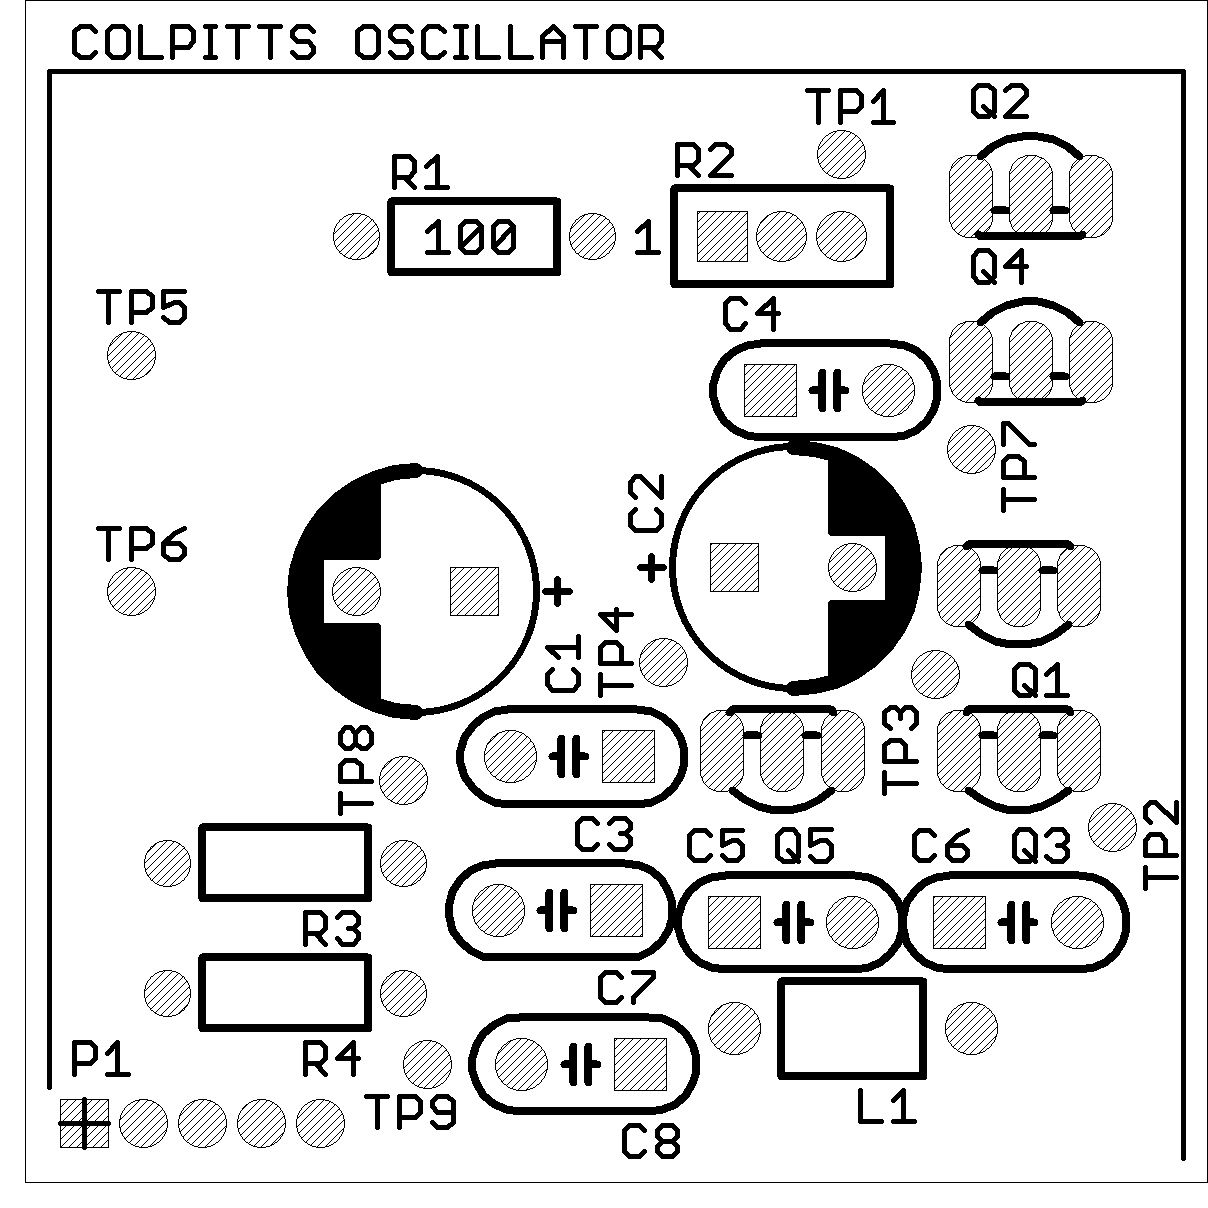
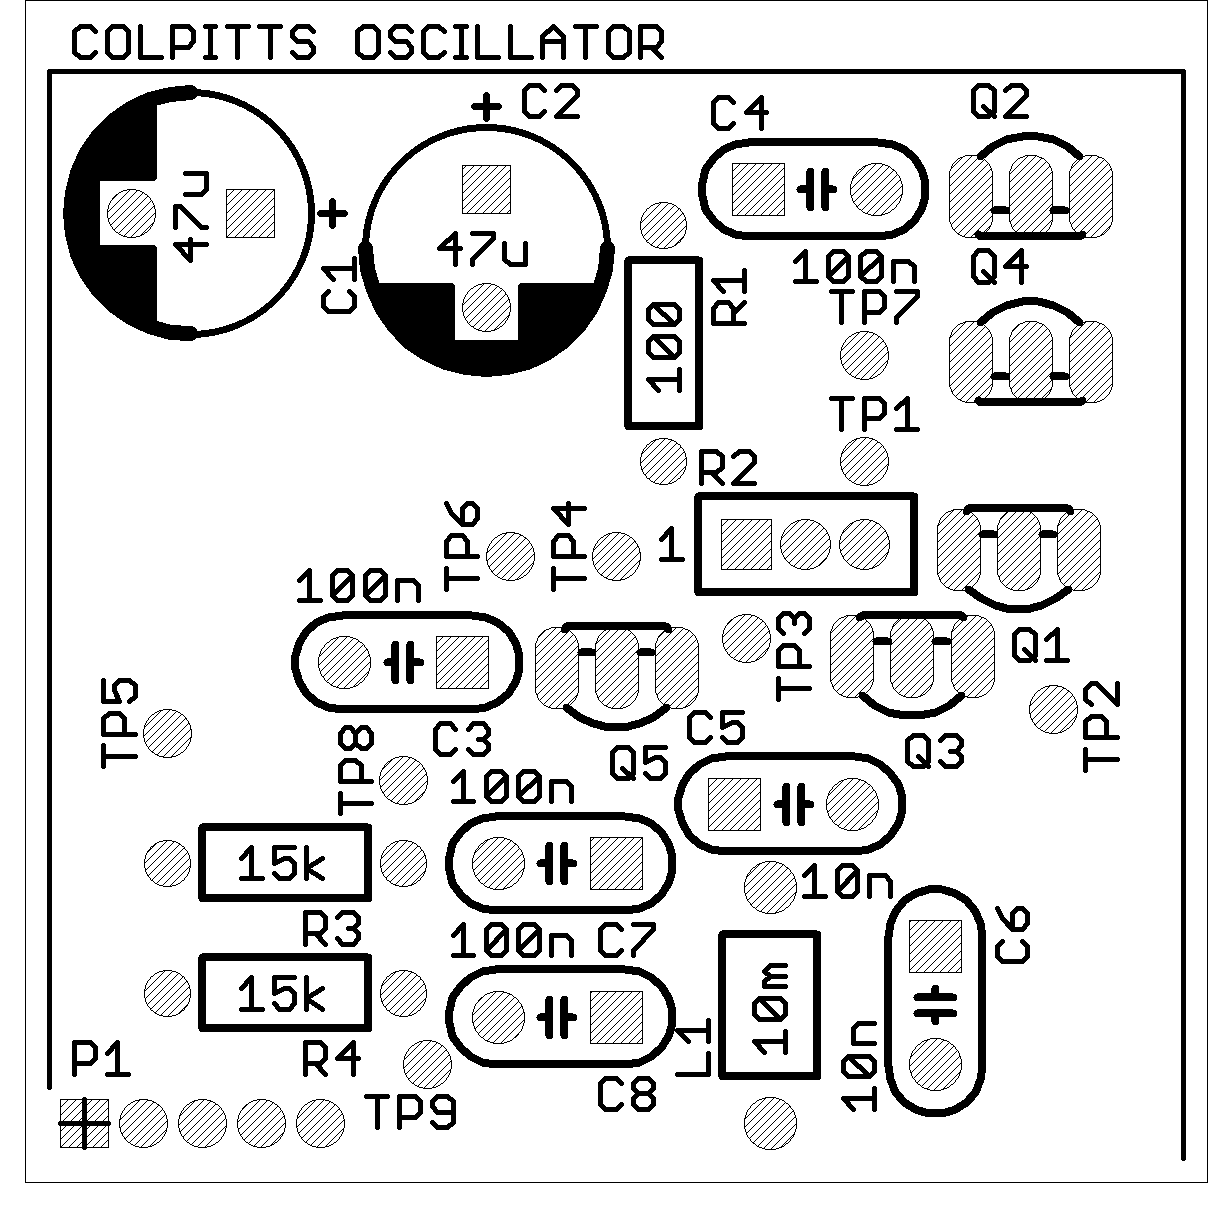
Rev A1-01

diff --git a/md/06B-20_A1-01_sch.md b/md/06B-20_A1-01_sch.md
@@ -1,0 +1,119 @@
+# Schematic Export (Markdown)
+
+**ULP Revision Date:** 20250907  
+**Statement:** This document is intended for use in AI training. 
+
+# Circuit Identification
+
+| Field            | Value |
+| ---------------- | ----- |
+| Part Number      | 06B-20 |
+| Revision         | A1-01 |
+| Title            | COLPITTS OSCILLATOR |
+| PCB Dimensions   | 50 mm x 50 mm |
+| Pieces per Panel | 4 |
+
+# Netlist
+
+| Net | Part | Pad | Pin | Sheet |
+|-----|------|-----|-----|-------|
+| GND | C1 | - | - | 1 |
+| GND | C3 | - | - | 1 |
+| GND | P1 | 1 | GND (1) | 1 |
+| GND | TP5 | 1 | 1 | 1 |
+| GND | C6 | - | - | 1 |
+| GND | R4 | 2 | 2 | 1 |
+| GND | R3 | 2 | 2 | 1 |
+| GND | C2 | + | + | 1 |
+| GND | C4 | + | + | 1 |
+| GND | L1 | 1 | 1 | 1 |
+| N$1 | Q3 | E | E | 1 |
+| N$1 | Q4 | C | C | 1 |
+| N$1 | Q4 | B | B | 1 |
+| N$1 | Q2 | B | B | 1 |
+| N$1 | TP2 | 1 | 1 | 1 |
+| N$2 | Q2 | C | C | 1 |
+| N$2 | Q1 | E | E | 1 |
+| N$3 | Q1 | B | B | 1 |
+| N$3 | Q3 | B | B | 1 |
+| N$3 | Q1 | C | C | 1 |
+| N$3 | R2 | E | E | 1 |
+| N$3 | TP1 | 1 | 1 | 1 |
+| N$5 | Q5 | B | B | 1 |
+| N$5 | C5 | + | + | 1 |
+| N$5 | C7 | + | + | 1 |
+| N$5 | TP4 | 1 | 1 | 1 |
+| N$5 | L1 | 1 | 1 | 1 |
+| N$8 | R2 | A | A | 1 |
+| N$8 | R1 | 2 | 2 | 1 |
+| N$8 | R2 | S | S | 1 |
+| N$9 | Q5 | E | E | 1 |
+| N$9 | Q3 | C | C | 1 |
+| N$9 | TP3 | 1 | 1 | 1 |
+| N$9 | C6 | + | + | 1 |
+| N$9 | C5 | - | - | 1 |
+| N$9 | C8 | + | + | 1 |
+| N$10 | P1 | 4 | OUT+ (4) | 1 |
+| N$10 | C7 | - | - | 1 |
+| N$10 | R3 | 1 | 1 | 1 |
+| N$10 | TP8 | 1 | 1 | 1 |
+| N$11 | P1 | 5 | OUT- (5) | 1 |
+| N$11 | C8 | - | - | 1 |
+| N$11 | R4 | 1 | 1 | 1 |
+| N$11 | TP9 | 1 | 1 | 1 |
+| V+ | P1 | 2 | V+ (2) | 1 |
+| V+ | C1 | + | + | 1 |
+| V+ | C3 | + | + | 1 |
+| V+ | TP6 | 1 | 1 | 1 |
+| V+ | R1 | 1 | 1 | 1 |
+| V+ | Q5 | C | C | 1 |
+| V- | P1 | 3 | V- (3) | 1 |
+| V- | TP7 | 1 | 1 | 1 |
+| V- | Q2 | E | E | 1 |
+| V- | Q4 | E | E | 1 |
+| V- | C2 | - | - | 1 |
+| V- | C4 | - | - | 1 |
+
+# Partlist
+
+| REF DES | PART TYPE | VALUE / DESCRIPTION |
+|---------|-----------|---------------------|
+| C1 | Capacitor | 47u |
+| C2 | Capacitor | 47u |
+| C3 | Capacitor | 100n |
+| C4 | Capacitor | 100n |
+| C5 | Capacitor | 10n |
+| C6 | Capacitor | 10n |
+| C7 | Capacitor | 100n |
+| C8 | Capacitor | 100n |
+| L1 | Inductor / Coil / Solenoid | 10m |
+| P1 | Connector (plug) |  |
+| Q1 | Transistor |  |
+| Q2 | Transistor |  |
+| Q3 | Transistor |  |
+| Q4 | Transistor |  |
+| Q5 | Transistor |  |
+| R1 | Resistor | 100 |
+| R2 | Resistor | 20k |
+| R3 | Resistor | 15k |
+| R4 | Resistor | 15k |
+| TP1 | Test point |  |
+| TP2 | Test point |  |
+| TP3 | Test point |  |
+| TP4 | Test point |  |
+| TP5 | Test point |  |
+| TP6 | Test point |  |
+| TP7 | Test point |  |
+| TP8 | Test point |  |
+| TP9 | Test point |  |
+
+# Pinout Description Table, P1  
+
+| Pin | Label | Notes |
+|-----|-------|-------|
+| 1 | GND |  |
+| 2 | V+ |  |
+| 3 | V- |  |
+| 4 | OUT+ |  |
+| 5 | OUT- |  |
+
